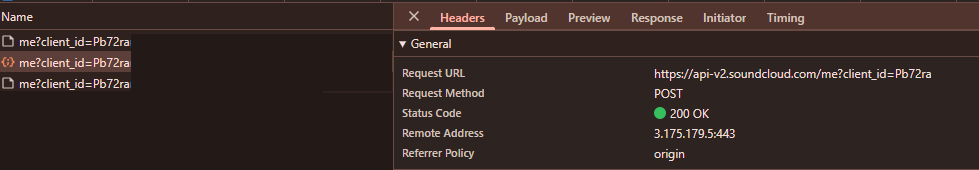
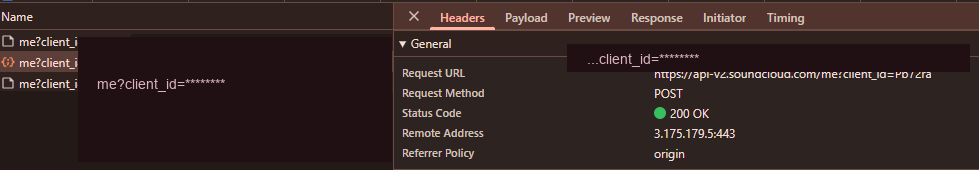
docs: redact client_id from README and screenshot

diff --git a/README.md b/README.md
@@ -59,9 +59,9 @@ Do this on a computer (Chrome / Edge / Firefox):
 4. In the filter box, type: `client_id`
 5. Click around or pause/play so new requests appear.
 6. Click a request to SoundCloud’s API — for example:
-   `https://api-v2.soundcloud.com/me?client_id=Pb72ranhoyt6gw7hM7TkzUItXlMWSNSo`
-7. Copy the long value after `client_id=` (in the example above: `Pb72ranhoyt6gw7hM7TkzUItXlMWSNSo`).  
-   Yours will look similar but may be different, and it can change over time.
+   `https://api-v2.soundcloud.com/me?client_id=xxxxxxxxxxxxxxxxxxxxxxxxxxxxxxxx`
+7. Copy the long value after `client_id=` (a string of letters and numbers).  
+   Yours will look similar but different, and it can change over time.
 
 <p align="center">
   <img src="assets/soundcloud-devtools-request.png" alt="Chrome DevTools Network tab showing api-v2.soundcloud.com/me?client_id=…" width="720"/>
